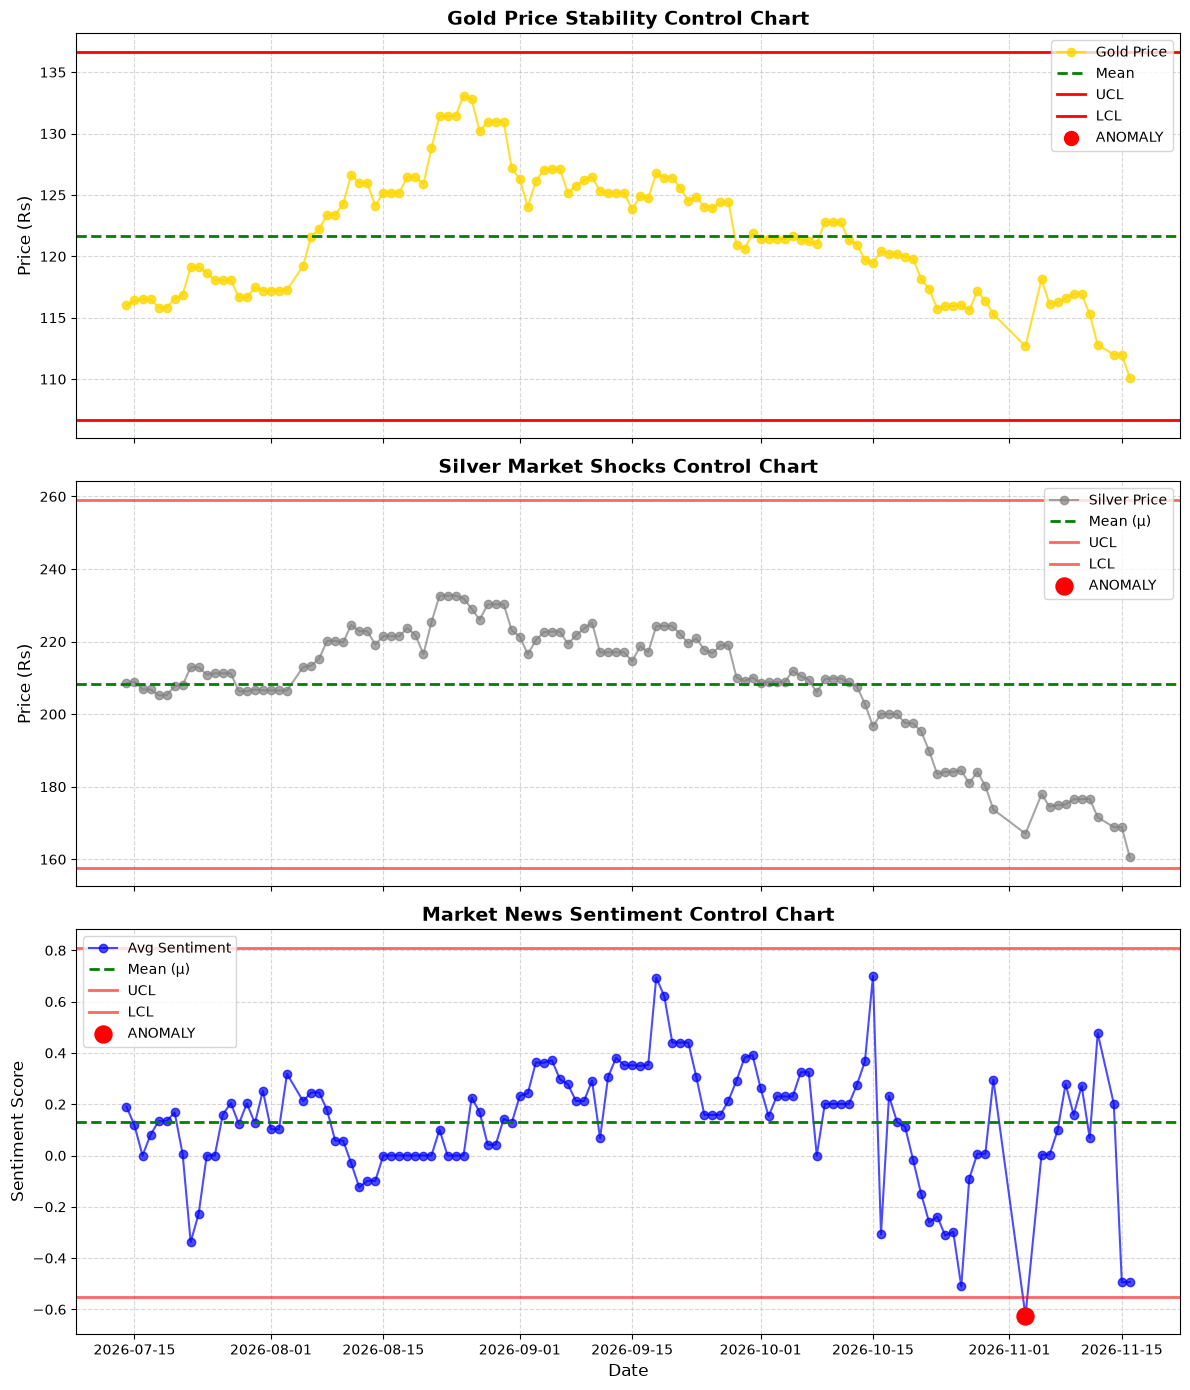
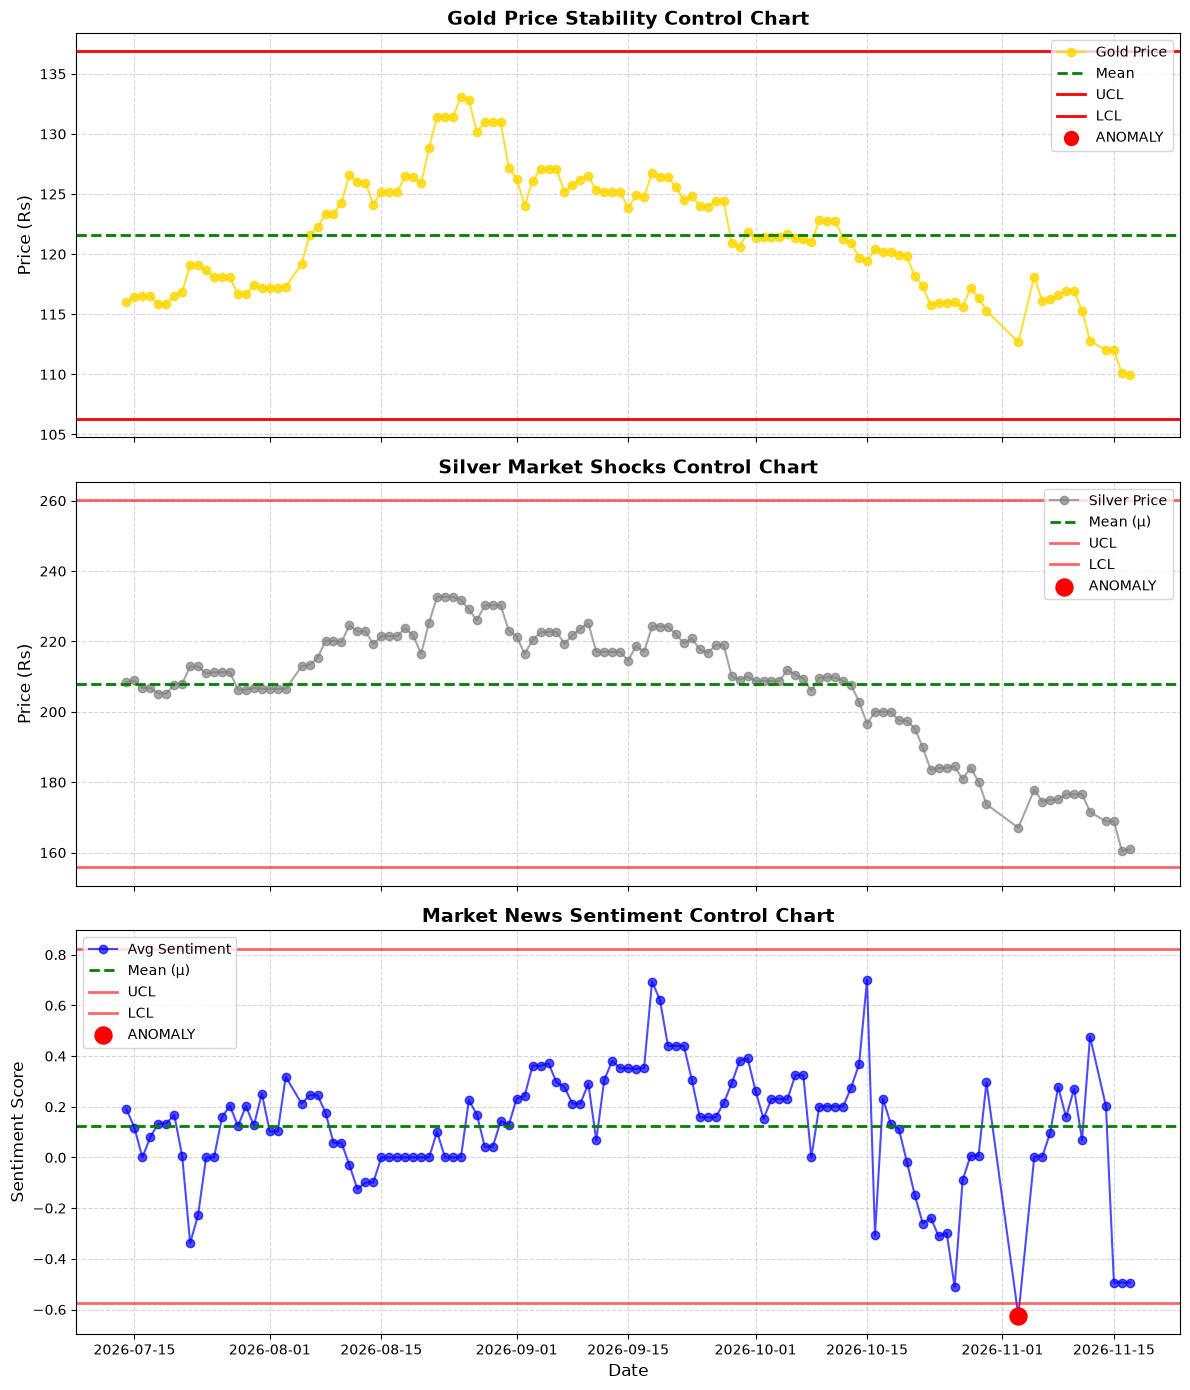
Automated Market Data & SQC Refresh

diff --git a/index.html b/index.html
@@ -146,7 +146,7 @@
     <body>
         <div class="container">
             <h1>Market Sentiment Tracker (Automated)</h1>
-            <div class="timestamp">Live Data Refreshed: 16 November 2026, 10:03 AM</div>
+            <div class="timestamp">Live Data Refreshed: 17 November 2026, 10:59 AM</div>
             
             <!-- 1. Executive Summary -->
             <h3>Executive Summary</h3>
@@ -170,27 +170,27 @@
                     <tbody>
                         <tr>
                             <td><strong>Gold ETF (Rs)</strong></td>
-                            <td>110.1</td>
-                            <td>121.69</td>
-                            <td>106.69</td>
-                            <td>136.68</td>
+                            <td>109.98</td>
+                            <td>121.59</td>
+                            <td>106.32</td>
+                            <td>136.86</td>
                             <td>🟢 NORMAL</td>
                         </tr>
                         <tr>
                             <td><strong>Silver ETF (Rs)</strong></td>
-                            <td>160.5</td>
-                            <td>208.41</td>
-                            <td>157.67</td>
-                            <td>259.15</td>
+                            <td>160.89</td>
+                            <td>208.02</td>
+                            <td>155.85</td>
+                            <td>260.18</td>
                             <td>🟢 NORMAL</td>
                         </tr>
                         <!-- NEW: Market Sentiment Row -->
                         <tr class="sentiment-row">
                             <td><strong>Banking News Sentiment</strong></td>
                             <td>-0.4939</td>
-                            <td>0.1294</td>
-                            <td>-0.5522</td>
-                            <td>0.811</td>
+                            <td>0.1242</td>
+                            <td>-0.5755</td>
+                            <td>0.8239</td>
                             <td>🟢 NORMAL</td>
                         </tr>
                     </tbody>
